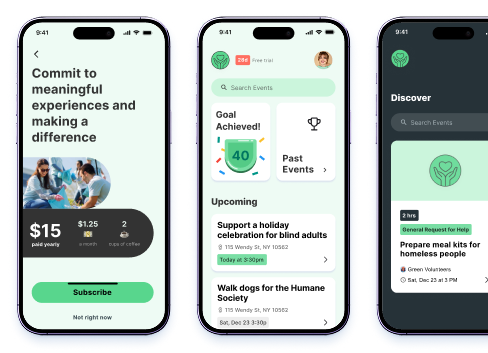
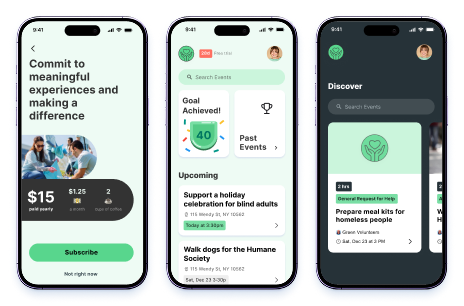
Fix Image Spacing

diff --git a/index.html b/index.html
@@ -73,8 +73,8 @@
 
 			<div class="bg-grey preview-card" style="grid-column: span 6; height: 480px; align-content: space-between;">
 				<div style="height: 100%; width: 100%; display: flex; flex-direction: column; align-items: flex-start; gap: 0px;">
-					<div style="display: flex; height: 100%; justify-content: center;">
-						<img src="assets/Morgan Lewis Preview Image.png" style="width: 84%; padding: 8%; align-self: center;" alt="Morgan Lewis example screens">
+					<div style="display: flex; height: 100%; width: 100%; justify-content: center;">
+						<img src="assets/Morgan Lewis Preview Image.png" style="width: 100%; padding: 0%; align-self: center; justify-self: center;" alt="Morgan Lewis example screens">
 					</div>
 						<span>Law</span>
 						<span class="text-tertiary" >Client Matter Resource, Morgan Lewis</span>
@@ -87,8 +87,8 @@
 					<div style="align-self: self-end; display: block; margin: 6px 6px;">
 						<span class="tag text-overline">AI Integration</span>
 					</div>
-					<div style="display: flex; height: 100%; justify-content: center;">
-						<img src="assets/Hanover Research Preview Image.png" style="width: 84%; padding: 8%; align-self: center;" alt="Exago Project example screens">
+					<div style="display: flex; height: 100%; width: 100%; justify-content: center;">
+						<img src="assets/Hanover Research Preview Image.png" style="width: 100%; padding: 0%; align-self: center;" alt="Exago Project example screens">
 					</div>
 						<span>Marketing & Sales</span>
 						<span class="text-tertiary" >Brand Health & Sales Analysis Dashboards, Hanover Research</span>
@@ -98,22 +98,21 @@
 
 			<div class="bg-grey preview-card" style="grid-column: span 6; height: 480px; align-content: space-between;">
 				<div style="height: 100%; width: 100%; display: flex; flex-direction: column; align-items: flex-start; gap: 0px;">
-					<div style="display: flex; height: 100%; justify-content: center;">
-						<img src="assets/Jupiter Climate Preview Image.png" style="width: 84%; padding: 8%; align-self: center;" alt="Jupiter example screens">
+					<div style="display: flex; height: 100%; width: 100%; justify-content: center;">
+						<img src="assets/Jupiter Climate Preview Image.png" style="width: 100%; padding: 0%; align-self: center;" alt="Jupiter example screens">
 					</div>
 						<span>B2B / Software as a Service</span>
 						<span class="text-tertiary" >Climate Risk Analysis Dashboard, Jupiter Intelligence</span>
 				</div>
 			</div>
 
-			<div class="bg-grey preview-card" style="grid-column: span 6; padding-right: 0px; height: 480px; align-content: space-between;">
+			<div class="bg-grey preview-card" style="grid-column: span 6; height: 480px; align-content: space-between;">
 
 				<div style="height: 100%; width: 100%; display: flex; flex-direction: column; align-items: flex-start; gap: 0px;">
-					<div style="align-self: self-end; display: block; margin: 6px 22px;">
+					<div style="align-self: self-end; display: block; margin: 6px 6px;">
 						<span class="tag text-overline">AI Integration</span>
 					</div>
-
-					<div style="display: flex; height: 100%; justify-content: center;">
+					<div style="display: flex; height: 100%; width: 100%; justify-content: center;">
 						<img src="assets/VolunTIME Preview Image.png" style="width: 100%; padding: 0%; align-self: center;" alt="VolunTIME example screens">
 					</div>
 						<span>Start Ups</span>
@@ -133,7 +132,7 @@
 			<div class="bg-grey preview-card" style="grid-column: span 6; padding-right: 0px; height: 480px; align-content: space-between;">
 
 				<div style="height: 100%; width: 100%; display: flex; flex-direction: column; align-items: flex-start; gap: 0px;">
-					<div style="display: flex; height: 100%; justify-content: center;">
+					<div style="display: flex; height: 100%; width: 100%; justify-content: center;">
 						<img src="assets/ANet Preview Image.png" style="width: 100%; padding: 0%; align-self: center;" alt="Achievement Network example screens">
 					</div>
 						<span>Education</span>
@@ -143,8 +142,8 @@
 
 			<div class="bg-grey preview-card" style="grid-column: span 6; height: 480px; align-content: space-between;">
 				<div style="height: 100%; width: 100%; display: flex; flex-direction: column; align-items: flex-start; gap: 0px;">
-					<div style="display: flex; height: 100%; justify-content: center;">
-						<img src="assets/First Mid Preview Image.png" style="width: 84%; padding: 8%; align-self: center;" alt="First Mid Ag Services example screens">
+					<div style="display: flex; height: 100%; width: 100%; justify-content: center;">
+						<img src="assets/First Mid Preview Image.png" style="width: 100%; padding: 0%; align-self: center;" alt="First Mid Ag Services example screens">
 					</div>
 						<span>Lending & Banks</span>
 						<span class="text-tertiary" >Accounting Software, First Mid Ag Services</span>
@@ -153,8 +152,8 @@
 
 			<div class="bg-grey preview-card" style="grid-column: span 6; height: 480px; align-content: space-between;">
 				<div style="height: 100%; width: 100%; display: flex; flex-direction: column; align-items: flex-start; gap: 0px;">
-					<div style="display: flex; height: 100%; justify-content: center;">
-						<img src="assets/RISA Preview Image.png" style="width: 84%; padding: 8%; align-self: center;" alt="RISA example screens">
+					<div style="display: flex; height: 100%; width: 100%; justify-content: center;">
+						<img src="assets/RISA Preview Image.png" style="width: 100%; padding: 0%; align-self: center;" alt="RISA example screens">
 					</div>
 						<span>B2B / Software as a Service</span>
 						<span class="text-tertiary" >Structural Engineering Software, RISA </span>
@@ -164,7 +163,7 @@
 			<div class="bg-grey preview-card" style="grid-column: span 6; padding-right: 0px; height: 480px; align-content: space-between;">
 
 				<div style="height: 100%; width: 100%; display: flex; flex-direction: column; align-items: flex-start; gap: 0px;">
-					<div style="display: flex; height: 100%; justify-content: center;">
+					<div style="display: flex; height: 100%; width: 100%; justify-content: center;">
 						<img src="assets/Hanover Survey Preview Image.png" style="width: 100%; padding: 0%; align-self: center;" alt="Hanover Survey Platform example screens">
 					</div>
 						<span>B2B / Software as a Service</span>
